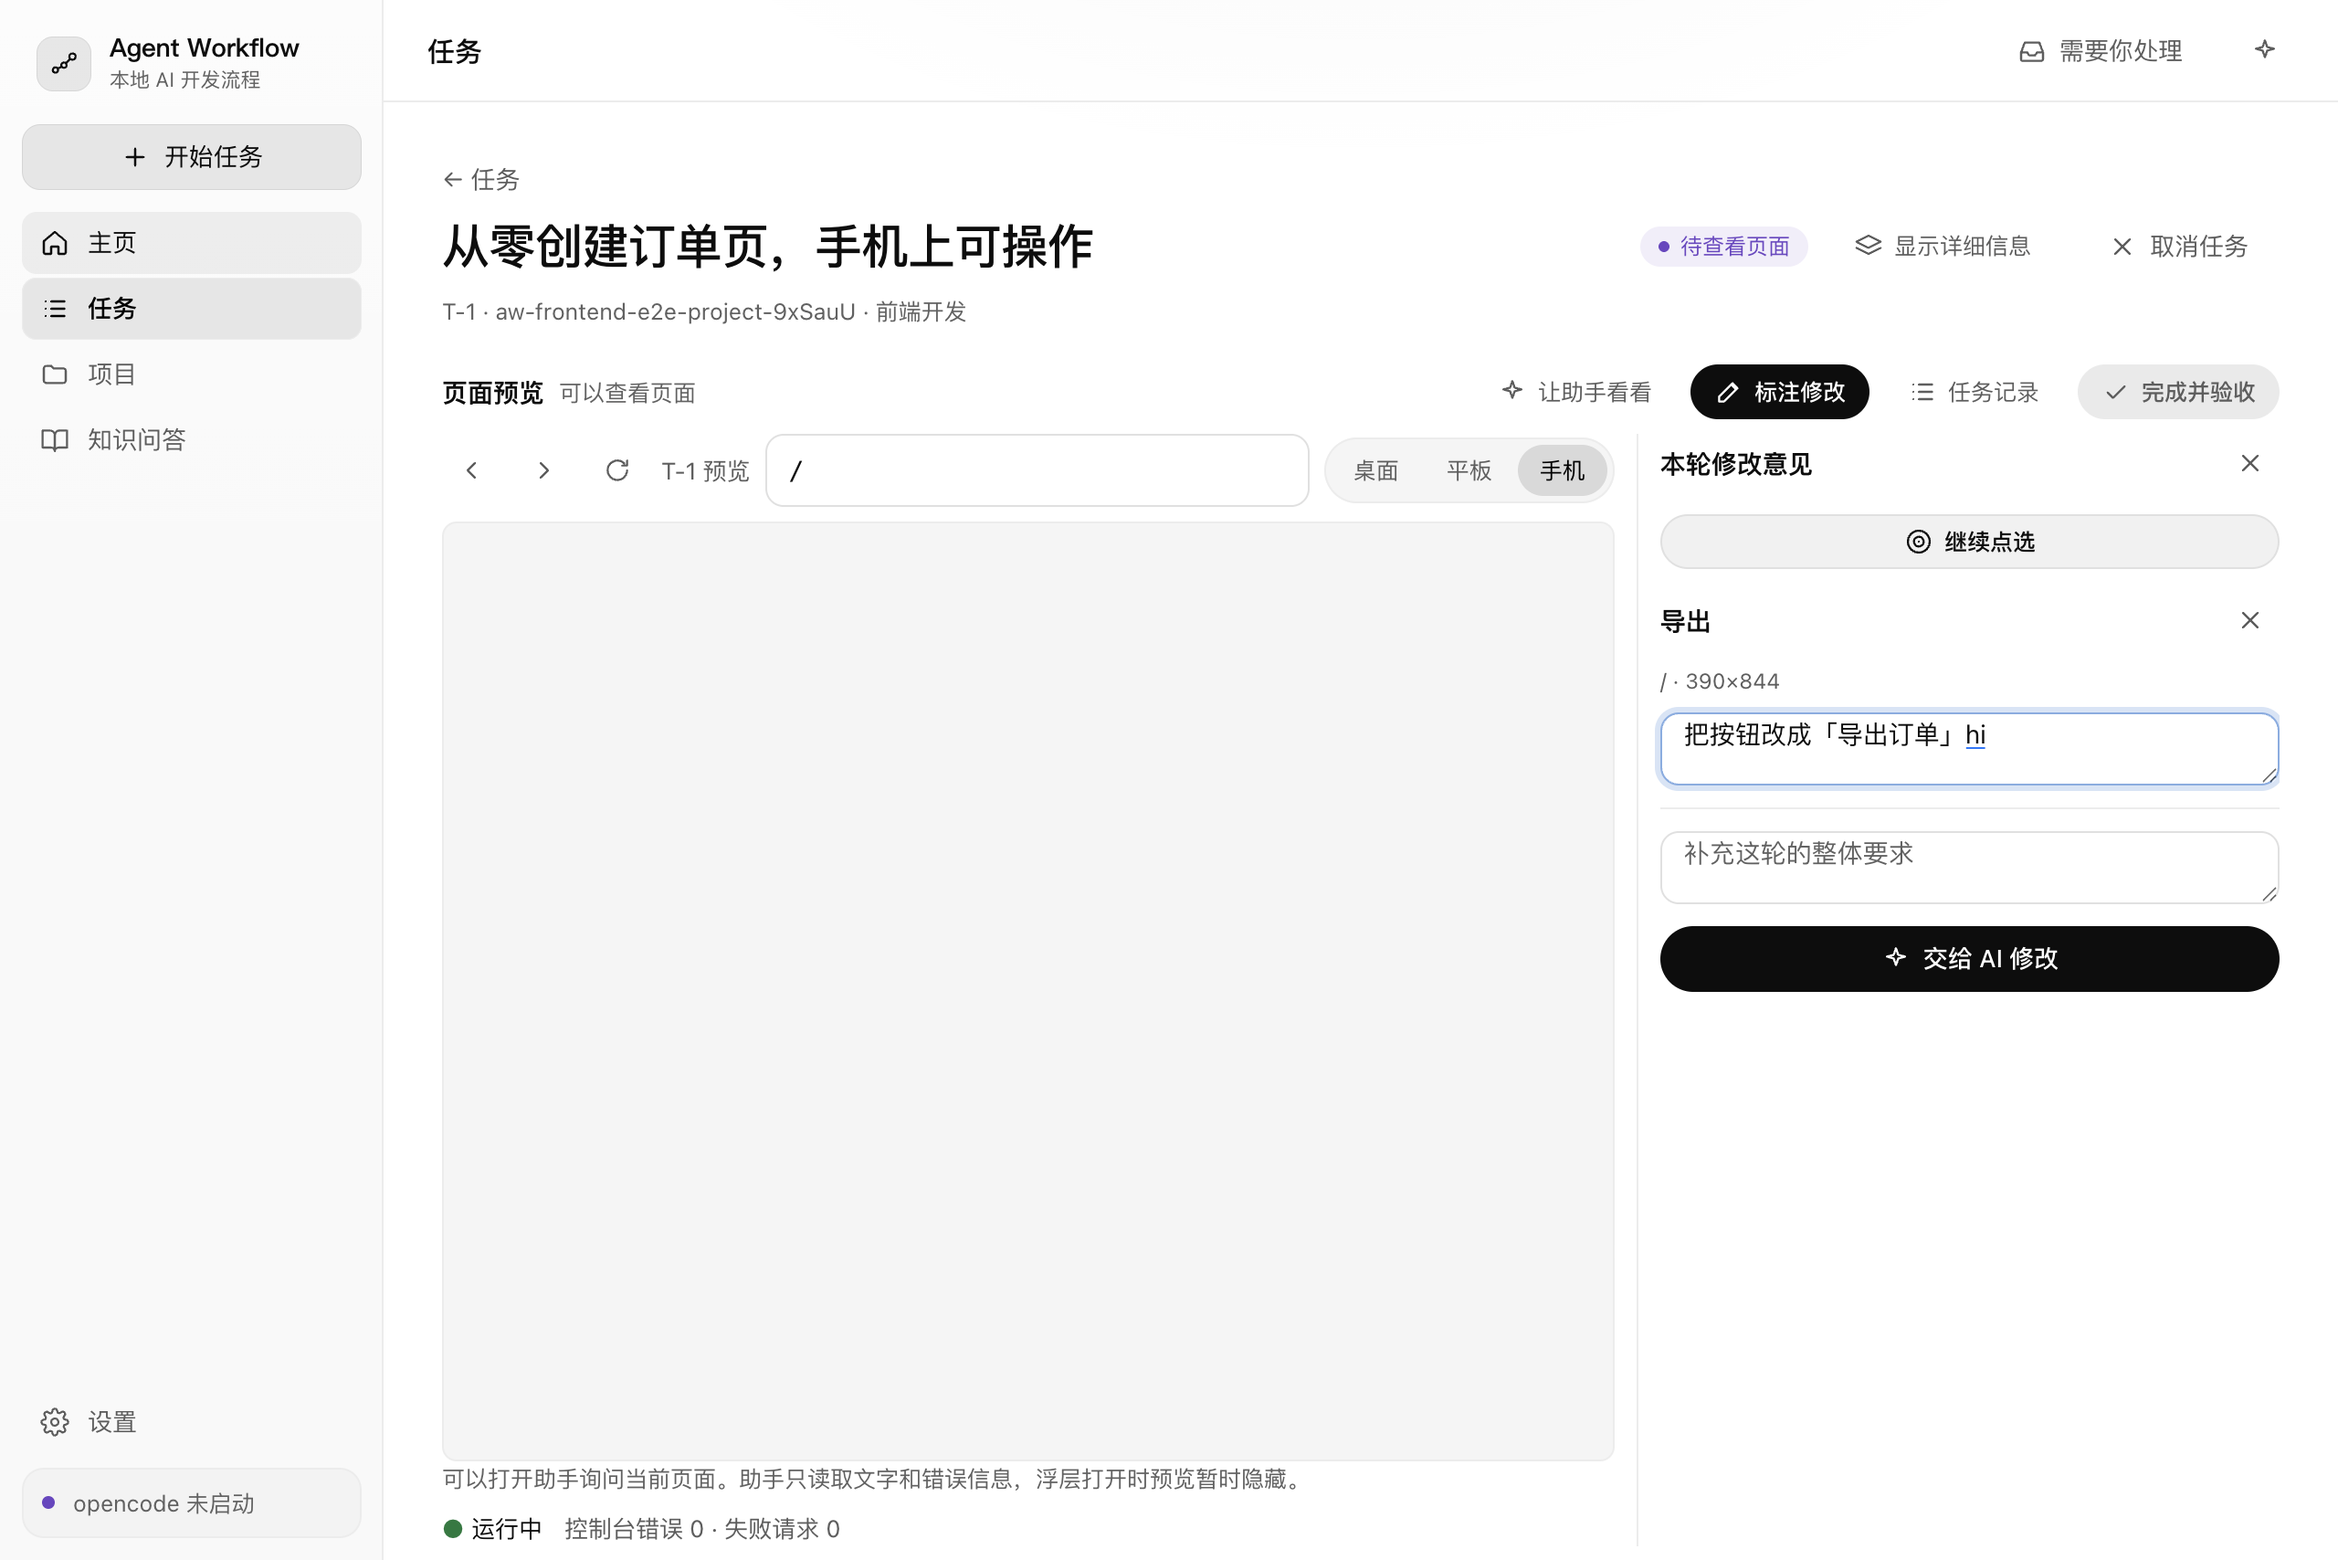
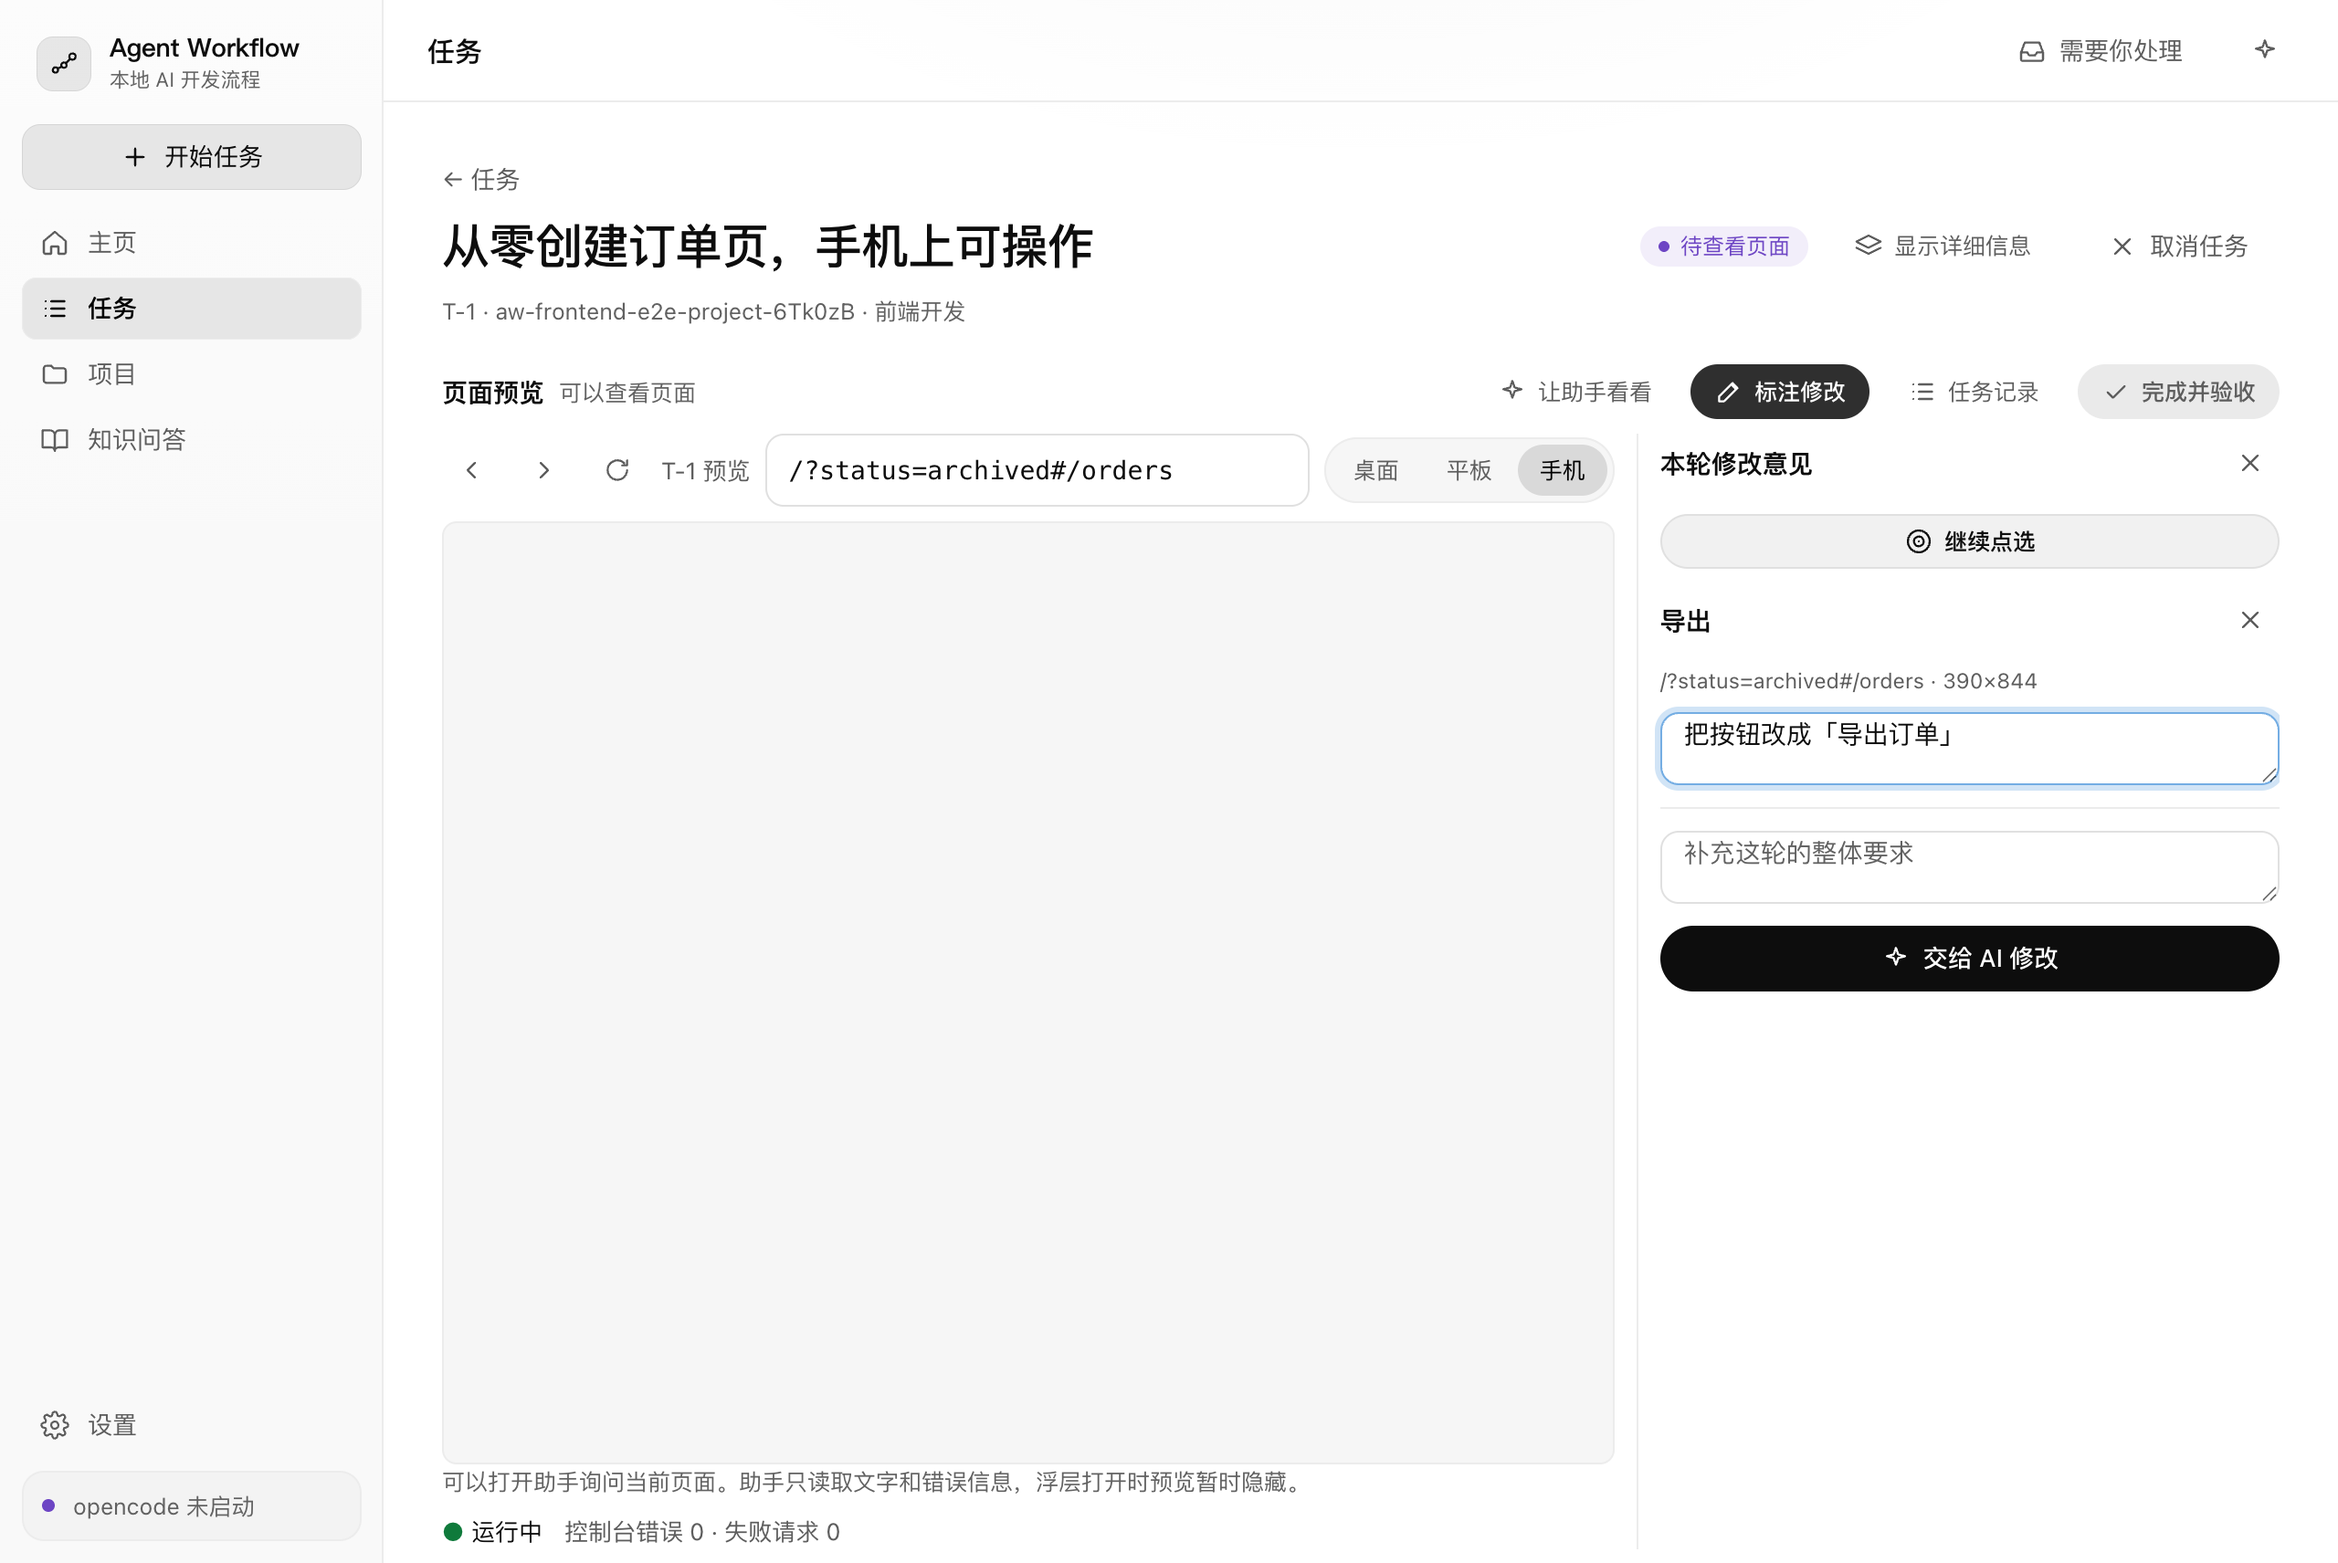
fix(frontend): retain the full preview route during verification
根因：预览只保留 pathname，标签页未跟踪同文档导航，批注和验收会遗漏查询及哈希。需求拆解的旧用例也漏掉了新增的默认前端流程。

diff --git a/packages/server/src/modules/browser/browser.tab.ts b/packages/server/src/modules/browser/browser.tab.ts
@@ -32,8 +32,14 @@ export type RequestEntry = {
 
 /** CDP event params the tab reads; they come from the browser, so they are parsed (06 §1). */
 const frameNavigatedSchema = z.object({
-  frame: z.object({ id: z.string(), url: z.string(), parentId: z.string().optional() }),
+  frame: z.object({
+    id: z.string(),
+    url: z.string(),
+    urlFragment: z.string().optional(),
+    parentId: z.string().optional(),
+  }),
 });
+const sameDocumentSchema = z.object({ frameId: z.string(), url: z.string() });
 const frameStartedNavigatingSchema = z.object({ frameId: z.string(), navigationType: z.string() });
 const dialogSchema = z.object({ type: z.string(), message: z.string() });
 const exceptionSchema = z.object({
@@ -131,6 +137,7 @@ export async function openTab({
   /** The main frame and its address, and where its current document's entries start (the user's counts, 29 §8.1). */
   let mainFrame: string | null = null;
   let url = '';
+  let documentUrl = '';
   let page = { console: 0, exceptions: 0, requests: 0 };
   /** Main-frame navigations that replace the document: started, and committed (29 §5.5). */
   const navigations = { started: 0, committed: 0 };
@@ -151,7 +158,8 @@ export async function openTab({
         const { frame } = frameNavigatedSchema.parse(params);
         if (frame.parentId !== undefined) return;
         mainFrame = frame.id;
-        url = frame.url;
+        documentUrl = frame.url;
+        url = documentUrl + (frame.urlFragment ?? '');
         // Refs name nodes of the page that was left (29 §5.5).
         refs = new Map();
         since.navigated = true;
@@ -159,6 +167,15 @@ export async function openTab({
         navigations.committed++;
         changed();
         mainFrameEvent();
+        return;
+      }
+      case 'Page.navigatedWithinDocument': {
+        const route = sameDocumentSchema.parse(params);
+        if (route.frameId !== mainFrame || route.url === url) return;
+        url = route.url;
+        refs = new Map();
+        since.navigated = true;
+        changed();
         return;
       }
       case 'Page.frameStartedNavigating': {
@@ -363,7 +380,7 @@ export async function openTab({
      */
     credentialsAsked(): string | null {
       if (since.certificateAsked !== null) return since.certificateAsked;
-      const document = [...requests.values()].findLast((r) => r.resourceType === 'Document' && r.url === url);
+      const document = [...requests.values()].findLast((r) => r.resourceType === 'Document' && r.url === documentUrl);
       return document?.status === 401 || document?.status === 407 ? url : null;
     },
 

diff --git a/packages/server/src/modules/browser/browser.frontend.ts b/packages/server/src/modules/browser/browser.frontend.ts
@@ -9,6 +9,8 @@ import {
   type FrontendRound,
   frontendElementSchema,
   frontendPageLayoutSchema,
+  localPreviewPathSchema,
+  previewPathFromUrl,
 } from '@aw/shared';
 import { z } from 'zod';
 import type { BrowserHost } from './browser.host.ts';
@@ -52,7 +54,15 @@ const readElement = `function () {
   };
 }`;
 
-const pagePath = (tab: Tab): string => new URL(tab.url()).pathname.slice(0, 500);
+const pagePath = (tab: Tab): string => previewPathFromUrl(new URL(tab.url()));
+function checkedPagePath(tab: Tab): string {
+  const route = localPreviewPathSchema.safeParse(pagePath(tab));
+  if (!route.success)
+    throw new AppError(ErrorCode.ValidationFailed, 'The preview route is too long or invalid', {
+      issues: route.error.issues,
+    });
+  return route.data;
+}
 type PendingPick = { id: string; done: PromiseWithResolvers<number | null>; abort: () => void; armed: boolean };
 
 export function createFrontendPreview(host: BrowserHost, dataDir: string) {
@@ -110,7 +120,7 @@ export function createFrontendPreview(host: BrowserHost, dataDir: string) {
       signal.throwIfAborted();
       const element = {
         id: randomUUID(),
-        path: pagePath(tab),
+        path: checkedPagePath(tab),
         viewport: tab.viewport.preset,
         ...facts,
       };
@@ -160,7 +170,7 @@ export function createFrontendPreview(host: BrowserHost, dataDir: string) {
       )?.element,
     layout: async (tab: Tab) => frontendPageLayoutSchema.parse(await tab.evaluate(readLayout)),
     async capture(taskId: string, tab: Tab, signal: AbortSignal): Promise<NonNullable<FrontendRound['before']>> {
-      const path = pagePath(tab);
+      const path = checkedPagePath(tab);
       const viewport = tab.viewport.preset;
       const { cssVisualViewport: v } = z
         .object({

diff --git a/packages/shared/src/contracts/api/browser.ts b/packages/shared/src/contracts/api/browser.ts
@@ -58,6 +58,19 @@ export const navigateUserTabRequestSchema = z.object({
 });
 export const setUserViewportRequestSchema = z.object({ tabId: z.string(), preset: viewportPresetSchema });
 
+/** The local route, including client-side routing and filter state. */
+export function previewPathFromUrl({
+  pathname,
+  search,
+  hash,
+}: {
+  pathname: string;
+  search: string;
+  hash: string;
+}): string {
+  return `${pathname}${search}${hash}`;
+}
+
 /** The user's preview tab as the bottom bar shows it (29 §8.1); SSE `browser.tab_updated` when it changes. */
 export const userTabStateSchema = z.object({
   tabId: z.string(),
@@ -65,8 +78,8 @@ export const userTabStateSchema = z.object({
   /** The page's address; empty until the first page loads. */
   url: z.string(),
   viewport: viewportPresetSchema,
-  /** Of the current page: console errors (uncaught exceptions included) and requests that failed or answered ≥ 400. */
   picking: z.boolean().optional(),
+  /** Of the current page: console errors (uncaught exceptions included) and requests that failed or answered ≥ 400. */
   consoleErrors: z.number().int(),
   failedRequests: z.number().int(),
 });

diff --git a/e2e/task-initiative-breakdown.browser.spec.ts b/e2e/task-initiative-breakdown.browser.spec.ts
@@ -107,9 +107,10 @@ test('J41 专业模式：「让 AI 拆解」时选可选流程，默认是改动
   // Exact names: other specs on the shared backend add custom workflows such as 「我的修 Bug」.
   const allowed = page.getByRole('group', { name: '可选流程' });
   await expect(allowed.getByLabel('新功能开发', { exact: true })).toBeChecked();
+  await expect(allowed.getByLabel('前端开发', { exact: true })).toBeChecked();
   await expect(allowed.getByLabel('详细设计', { exact: true })).toBeChecked();
   await expect(allowed.getByLabel('代码审查', { exact: true })).not.toBeChecked();
-  for (const name of ['新功能开发', '修 Bug', '补单元测试', '重构', '清理告警', '详细设计', '需求拆解']) {
+  for (const name of ['新功能开发', '前端开发', '修 Bug', '补单元测试', '重构', '清理告警', '详细设计', '需求拆解']) {
     await allowed.getByLabel(name, { exact: true }).uncheck();
   }
   await expect(page.getByText('至少选一个流程')).toBeVisible();

diff --git a/packages/shared/src/contracts/api/frontend.ts b/packages/shared/src/contracts/api/frontend.ts
@@ -10,12 +10,13 @@ export const FRONTEND_VERIFY_PREFIX = 'frontend_verify_';
 export const FRONTEND_ANNOTATION_LIMIT = 6;
 export const FRONTEND_NOTE_LIMIT = 300;
 export const FRONTEND_FEEDBACK_LIMIT = 1800;
+const FRONTEND_ROUTE_LIMIT = 2000;
 
 const dimension = z.object({ width: z.number(), height: z.number() });
 export const frontendPageLayoutSchema = dimension.extend({ scrollWidth: z.number() });
 export const frontendElementSchema = z.object({
   id: z.uuid(),
-  path: z.string().max(500),
+  path: z.string().max(FRONTEND_ROUTE_LIMIT),
   viewport: viewportPresetSchema,
   layout: frontendPageLayoutSchema,
   tag: z.string().max(40),
@@ -41,5 +42,5 @@ export type FrontendRound = z.infer<typeof frontendRoundSchema>;
 
 export const localPreviewPathSchema = z
   .string()
-  .max(500)
+  .max(FRONTEND_ROUTE_LIMIT)
   .regex(/^\/(?![/\\])[^\r\n]*$/);

diff --git a/apps/web/src/features/preview/frontend-workbench.tsx b/apps/web/src/features/preview/frontend-workbench.tsx
@@ -9,6 +9,7 @@ import {
   NodeKind,
   NodeStatus,
   pickFrontendElementOp,
+  previewPathFromUrl,
   type TaskDetailDTO,
   TaskStatus,
   type UserTabState,
@@ -233,7 +234,8 @@ export function FrontendWorkbench({
             disabled={!review || hasDraft || revision.isPending}
             pending={finish.isPending}
             onClick={() => {
-              const path = tab !== undefined && URL.canParse(tab.url) ? new URL(tab.url).pathname : undefined;
+              const path =
+                tab !== undefined && URL.canParse(tab.url) ? previewPathFromUrl(new URL(tab.url)) : undefined;
               finish.mutate(
                 { id: task.id, ...(path === undefined ? {} : { path }) },
                 {

diff --git a/apps/web/src/features/preview/my-preview.tsx b/apps/web/src/features/preview/my-preview.tsx
@@ -5,6 +5,7 @@ import {
   openUserTabOp,
   type Preview,
   PreviewState,
+  previewPathFromUrl,
   setUserViewportOp,
   startPreviewOp,
   stopPreviewOp,
@@ -40,7 +41,7 @@ const limitOf = (error: unknown) =>
     ? limitSchema.parse(error.details)
     : undefined;
 
-const pathOf = (url: string) => (url === '' ? '/' : `${new URL(url).pathname}${new URL(url).search}`);
+const pathOf = (url: string) => (url === '' ? '/' : previewPathFromUrl(new URL(url)));
 
 /** One of the running previews in the way, and a way to stop it. */
 function RunningPreview({ taskId, onStopped }: { taskId: string; onStopped: () => void }) {

diff --git a/docs/29-browser.md b/docs/29-browser.md
@@ -53,7 +53,7 @@
 
 「开始任务」可选「前端开发」。已有项目沿用项目预览配置。空项目加入 Git 后可以直接创建前端任务，首版完成后从任务 worktree 推断开发命令和依赖安装命令。项目的预览设置可用于自定义启动方式。
 
-工作台把真实预览放在主区，「标注修改」打开同页侧栏。Chromium 的元素选择模式负责高亮和命中，服务端提取路径、视口、元素标签、定位线索、坐标和计算样式。每轮最多记六条元素意见，也可填写整页意见。页面保持可浏览，用户可在 AI 修改期间起草，当前修改完成后即可发送下一轮。
+工作台把真实预览放在主区，「标注修改」打开同页侧栏。Chromium 的元素选择模式负责高亮和命中，服务端提取完整页面路由（含查询参数与哈希）、视口、元素标签、定位线索、坐标和计算样式。每轮最多记六条元素意见，也可填写整页意见。页面保持可浏览，用户可在 AI 修改期间起草，当前修改完成后即可发送下一轮。
 
 提交意见时，后端核对预览页签和选中元素的任务归属，记录改前截图，再在原任务分支追加修改步骤。任务记录可展开查看流程、步骤、批注及截图。当前预览保留原路径与视口供用户复验。
 
